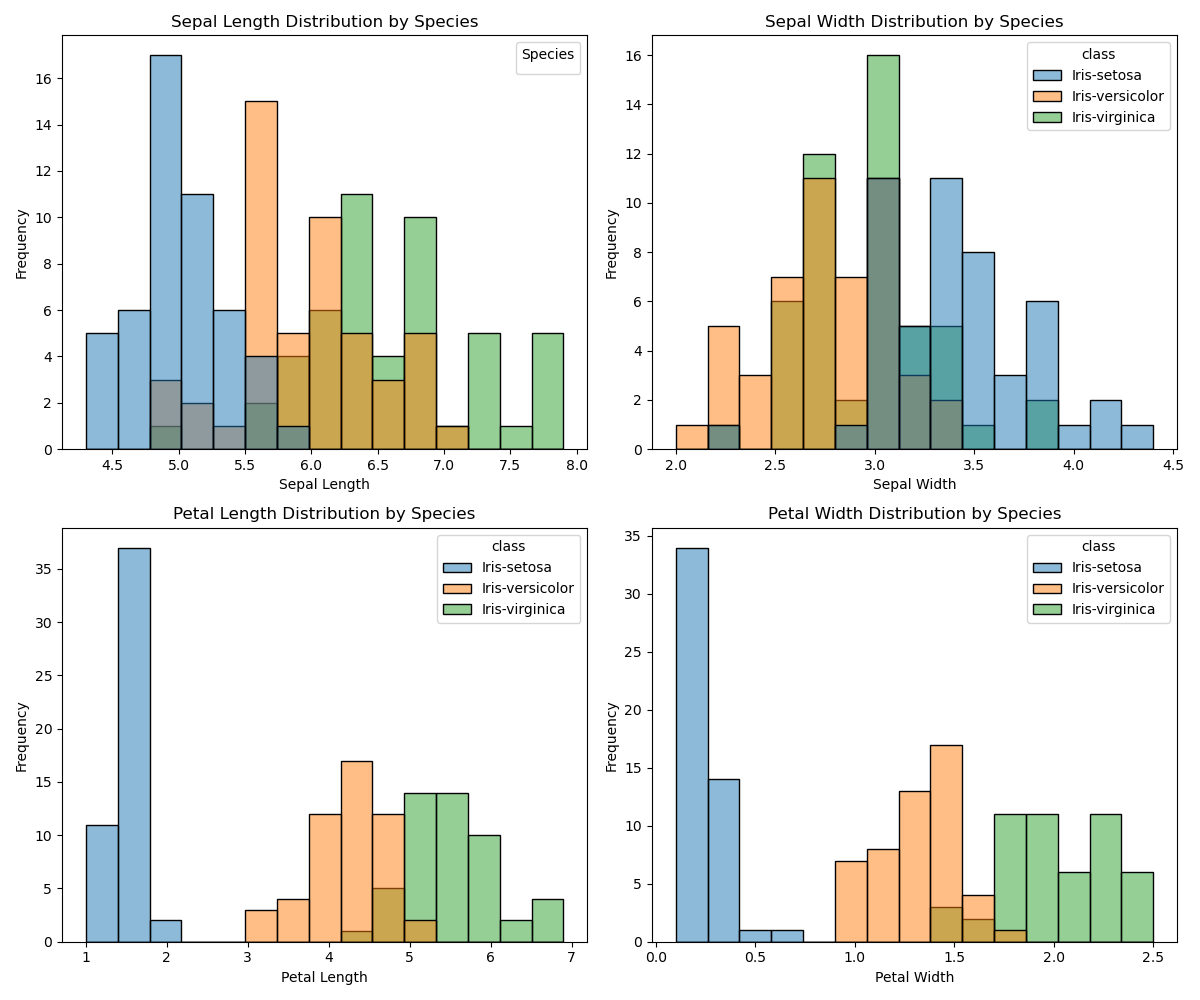
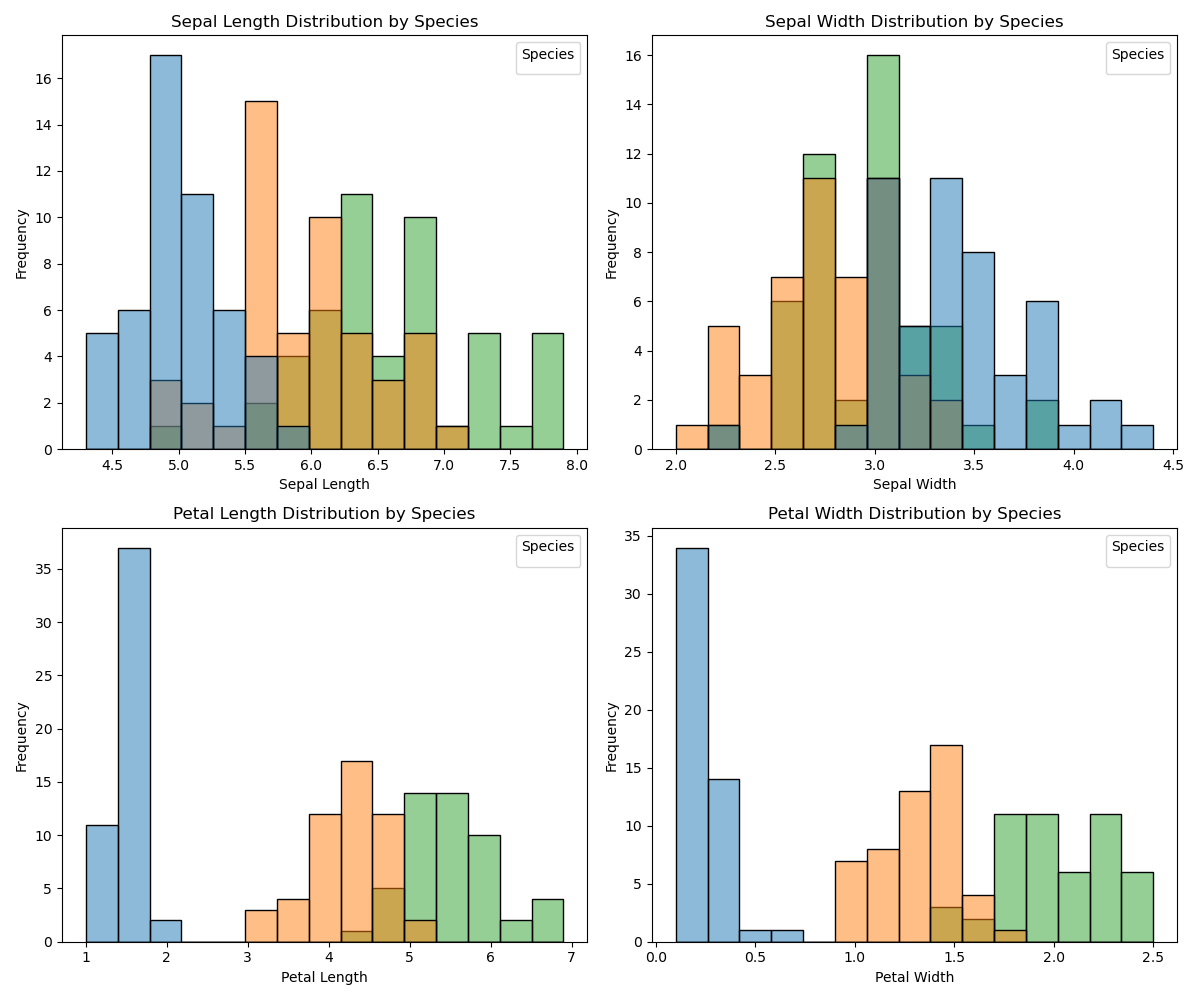
modified to try adding species as title of legend, it won't show the classes, need to  try again

Changed region(s): [[0.8325, 0.031, 0.9867, 0.124], [0.8633, 0.527, 0.9867, 0.62], [0.37, 0.527, 0.4933, 0.62]]

diff --git a/analysis.py b/analysis.py
@@ -170,27 +170,31 @@ fig, axes = plt.subplots(2, 2, figsize=(12, 10))
 # Plot histogram for Sepal Length
 sns.histplot(data=iris_df, x="sepal length", hue="class", kde=False, ax=axes[0, 0], bins=15)
 axes[0, 0].set_title("Sepal Length Distribution by Species")
-axes[0, 0].legend(title='Species')
 axes[0, 0].set_xlabel("Sepal Length")
 axes[0, 0].set_ylabel("Frequency")
+axes[0, 0].legend(title='Species')  # Ensure legend title is set
 
 # Plot histogram for Sepal Width
 sns.histplot(data=iris_df, x="sepal width", hue="class", kde=False, ax=axes[0, 1], bins=15)
 axes[0, 1].set_title("Sepal Width Distribution by Species")
 axes[0, 1].set_xlabel("Sepal Width")
 axes[0, 1].set_ylabel("Frequency")
+axes[0, 1].legend(title='Species')  # Ensure legend title is set
 
 # Plot histogram for Petal Length
 sns.histplot(data=iris_df, x="petal length", hue="class", kde=False, ax=axes[1, 0], bins=15)
 axes[1, 0].set_title("Petal Length Distribution by Species")
 axes[1, 0].set_xlabel("Petal Length")
 axes[1, 0].set_ylabel("Frequency")
+axes[1, 0].legend(title='Species')  # Ensure legend title is set
 
 # Plot histogram for Petal Width
 sns.histplot(data=iris_df, x="petal width", hue="class", kde=False, ax=axes[1, 1], bins=15)
 axes[1, 1].set_title("Petal Width Distribution by Species")
 axes[1, 1].set_xlabel("Petal Width")
 axes[1, 1].set_ylabel("Frequency")
+axes[1, 1].legend(title='Species')  # Ensure legend title is set
+
 
 # Adjust layout for better spacing
 plt.tight_layout()
